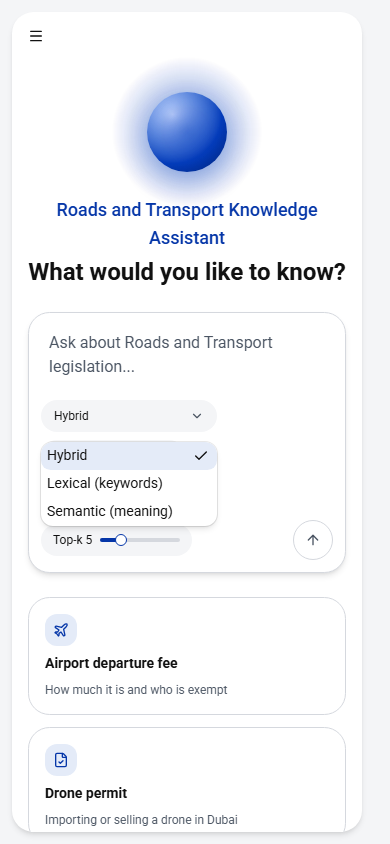
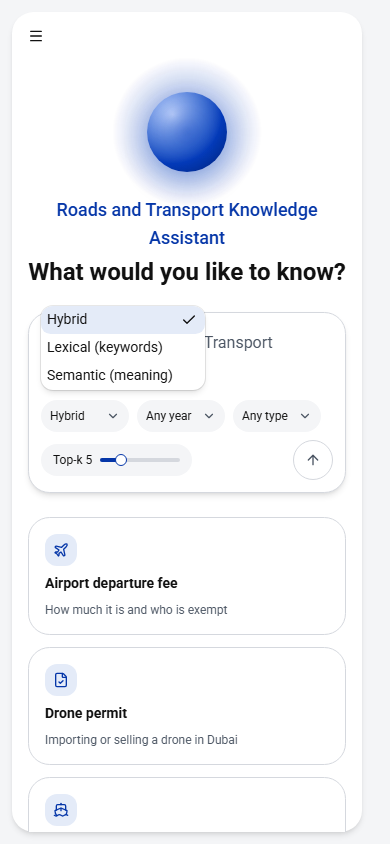
Open composer dropdowns above their chips with matching widths; one-row chips on phones

diff --git a/frontend/src/components/Composer.tsx b/frontend/src/components/Composer.tsx
@@ -15,8 +15,9 @@ interface Props {
   submitLabel: string
 }
 
-// Open each list BELOW its chip (not on top of it), so no chip is ever hidden behind another one.
-const LIST = { position: 'popper', align: 'start', sideOffset: 6, className: 'max-h-64' } as const // max-h-64: a long list scrolls instead of flipping above the chip
+// Lists open ABOVE their chip, over the text box, so they can never cover another chip (the chips and the send button are the
+// bottom rows of the composer). If there is no room above, the browser flips them below. max-h-64: a long list scrolls.
+const LIST = { position: 'popper', side: 'top', align: 'start', sideOffset: 6, className: 'max-h-64' } as const
 
 // A small rounded "chip" look for the dropdowns inside the composer.
 const CHIP = 'h-8! gap-1 rounded-full border-transparent bg-surface px-3 text-xs hover:bg-accent [&_svg]:size-3.5'
@@ -57,8 +58,8 @@ export function Composer({ question, onQuestionChange, controls, onControlsChang
 
       <div className="mt-2 flex flex-wrap items-center gap-2">
         <Select value={controls.mode} onValueChange={(v) => set({ mode: v as SearchMode })}>
-          <SelectTrigger className={`${CHIP} w-44`} aria-label="Search mode">
-            <SelectValue />
+          <SelectTrigger className={`${CHIP} w-22 px-2 sm:w-44 sm:px-3`} aria-label="Search mode">
+            <SelectValue>{MODES.find((m) => m.value === controls.mode)?.short}</SelectValue>
           </SelectTrigger>
           <SelectContent {...LIST}>
             {MODES.map((m) => (
@@ -70,7 +71,7 @@ export function Composer({ question, onQuestionChange, controls, onControlsChang
         </Select>
 
         <Select value={controls.year === null ? ANY : String(controls.year)} onValueChange={(v) => set({ year: v === ANY ? null : Number(v) })}>
-          <SelectTrigger className={`${CHIP} w-36`} aria-label="Year">
+          <SelectTrigger className={`${CHIP} w-22 px-2 sm:w-36 sm:px-3`} aria-label="Year">
             <SelectValue />
           </SelectTrigger>
           <SelectContent {...LIST}>
@@ -84,7 +85,7 @@ export function Composer({ question, onQuestionChange, controls, onControlsChang
         </Select>
 
         <Select value={controls.docType ?? ANY} onValueChange={(v) => set({ docType: v === ANY ? null : v })}>
-          <SelectTrigger className={`${CHIP} w-36`} aria-label="Document type">
+          <SelectTrigger className={`${CHIP} w-22 px-2 sm:w-36 sm:px-3`} aria-label="Document type">
             <SelectValue />
           </SelectTrigger>
           <SelectContent {...LIST}>

diff --git a/frontend/src/lib/options.ts b/frontend/src/lib/options.ts
@@ -4,10 +4,11 @@
 
 export type SearchMode = 'lexical' | 'semantic' | 'hybrid'
 
-export const MODES: { value: SearchMode; label: string }[] = [
-  { value: 'hybrid', label: 'Hybrid' },
-  { value: 'lexical', label: 'Lexical (keywords)' },
-  { value: 'semantic', label: 'Semantic (meaning)' },
+// label = what the list shows; short = what the chip shows (short enough for three chips to fit on one phone-width row)
+export const MODES: { value: SearchMode; label: string; short: string }[] = [
+  { value: 'hybrid', label: 'Hybrid', short: 'Hybrid' },
+  { value: 'lexical', label: 'Lexical (keywords)', short: 'Lexical' },
+  { value: 'semantic', label: 'Semantic (meaning)', short: 'Semantic' },
 ]
 
 export const YEARS = [2026, 2025, 2024, 2023, 2022, 2020, 2016, 2012, 2011, 2010, 2008, 2007, 2006]
